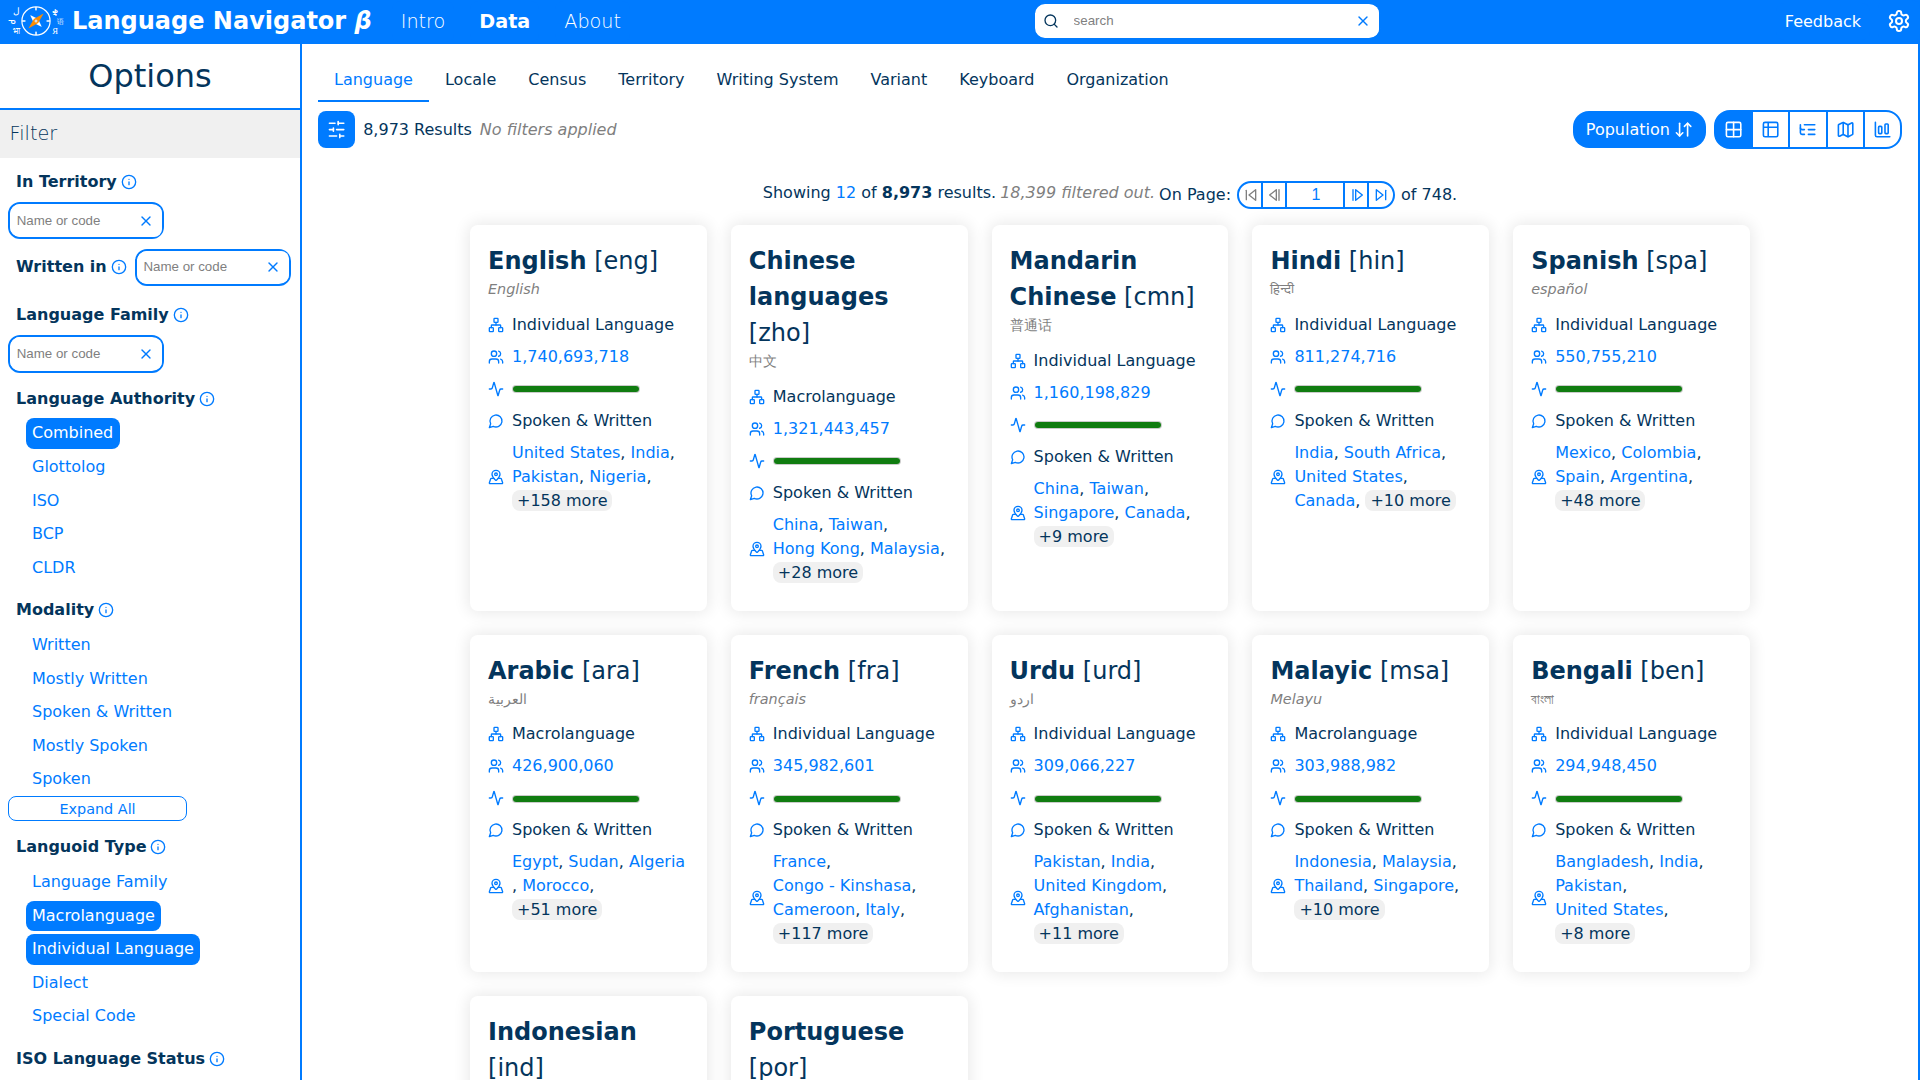
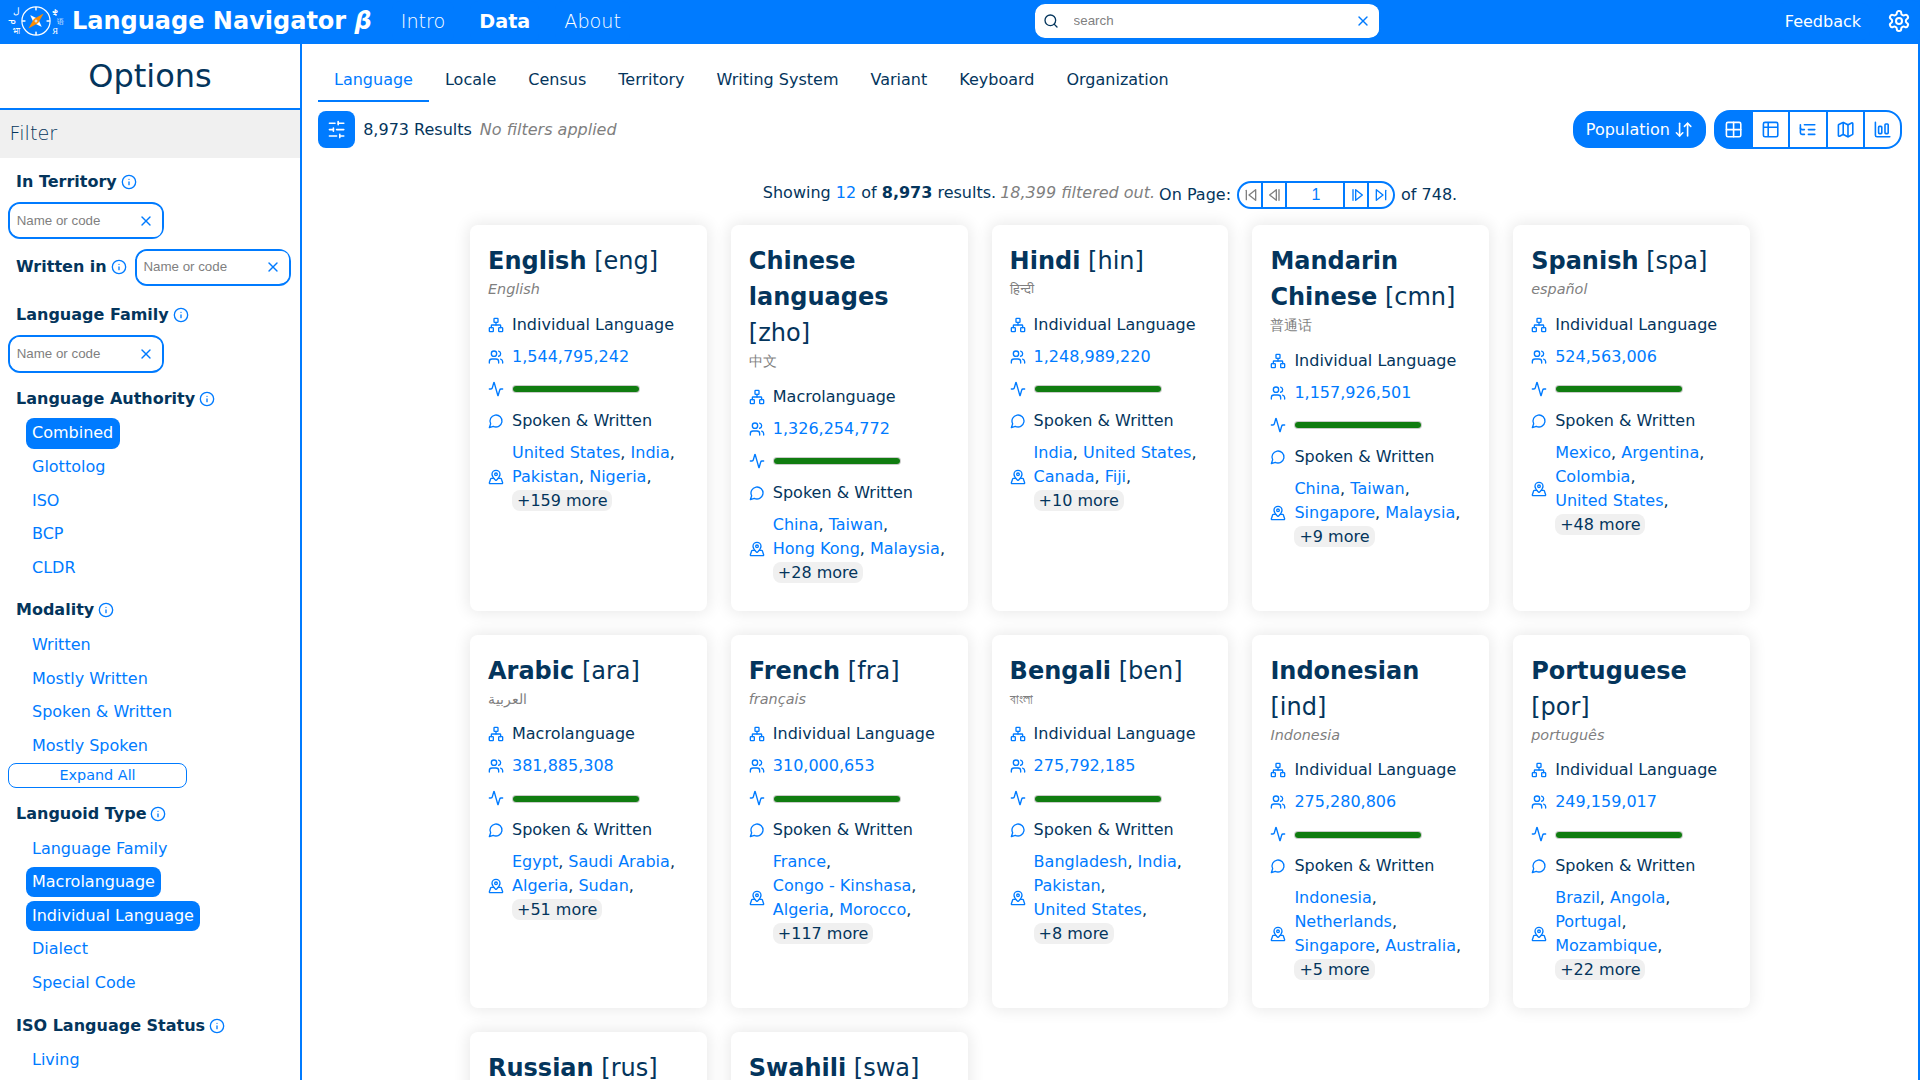
Censuses: More data, fixed Mayan category for Mexico (#705)
Summary: Added 5 censuses and did some other general improvements to how
we show census data

### Changes

- User experience
  - Changed citation format to use Organization shorthand
- Logical changes
- Fixed filter selectors to show up to 5 items, or 4 items + more button
- Data
- Added censuses for new countries: Comoros, Sierra Leone, Syria, South
Africa, Madagascar
  - Added orgs for the ZA and MG statistics organizations
- Fixed some language assignments: isiNdebele in South Africa is
actually South Ndebele (nde), and Maya in the Mexico census is yua
(Yucatec) since other Mayan languages are already included
  - Added locales that came to light with the new data
- Refactors
  - Moved AXL censuses to the same folder

Out of scope/Future work: Always Be Collecting censuses

### Test Plan and Screenshots

How to test the changes in this PR: Used the census input tool and
reviewed the potential locales page

---------

Pull request: Censuses: More data, fixed Mayan category for Mexico
Summary: Added 5 censuses and did some other general improvements to how we show census data

### Changes

- User experience
  - Changed citation format to use Organization shorthand
- Logical changes
  - Fixed filter selectors to show up to 5 items, or 4 items + more button
- Data
  - Added censuses for new countries: Comoros, Sierra Leone, Syria, South Africa, Madagascar
  - Added orgs for the ZA and MG statistics organizations
  - Fixed some language assignments: isiNdebele in South Africa is actually South Ndebele (nde), and Maya in the Mexico census is yua (Yucatec) since other Mayan languages are already included
  - Added locales that came to light with the new data
- Refactors
  - Moved AXL censuses to the same folder

Out of scope/Future work: Always Be Collecting censuses

### Test Plan and Screenshots

How to test the changes in this PR: Used the census input tool and reviewed the potential locales page

diff --git a/src/entities/locale/LocaleCensusCitation.tsx b/src/entities/locale/LocaleCensusCitation.tsx
@@ -16,35 +16,16 @@ type Props = {
 const LocaleCensusCitation: React.FC<Props> = ({ locale, size = 'full' }) => {
   const { census, source } = locale.pop.speaking;
 
-  if (census != null) return <CensusCitation census={census} size={size} />;
+  if (census != null) return <CensusCitation census={census} />;
   if (source != null) return <PopulationSource populationSource={source} size={size} />;
   return <Deemphasized>n/a</Deemphasized>;
 };
 
-const CensusCitation: React.FC<{ census: CensusData; size: 'short' | 'full' }> = ({
-  census,
-  size,
-}) => {
-  const { yearCollected, collectorName, collectorType, presentedBy } = census;
-  if (presentedBy === 'CLDR') {
-    // Leave out the date from CLDR, it's not available from the source
-    return (
-      <HoverableObject object={census}>{collectorName ?? presentedBy ?? 'Unknown'}</HoverableObject>
-    );
-  }
-  let name = collectorName;
-  if (name == null || name === '' || size === 'short') {
-    switch (collectorType) {
-      case 'Government':
-        name = census.territory?.nameDisplay ?? census.isoRegionCode;
-        break;
-      default:
-        name = collectorType;
-    }
-  }
+const CensusCitation: React.FC<{ census: CensusData }> = ({ census }) => {
+  const { yearCollected, collector, presenter } = census;
   return (
     <HoverableObject object={census}>
-      {name} {yearCollected}
+      {collector?.codeDisplay ?? presenter?.codeDisplay ?? 'Unknown'} {yearCollected}
     </HoverableObject>
   );
 };

diff --git a/src/features/transforms/filtering/selectors/FilterSelector.tsx b/src/features/transforms/filtering/selectors/FilterSelector.tsx
@@ -56,11 +56,28 @@ const FilterSelector: React.FC<Props> = ({ field }) => {
  */
 export const AllApplicableFilterSelectors: React.FC = () => {
   const { objectType } = usePageParams();
-  const filterBys = getApplicableFields(TransformEnum.Filter, objectType).filter(
-    (f) => f !== Field.Name,
-  ); // This shouldn't return the search bar
+  const primaryFilters: Field[] = getApplicableFields(TransformEnum.Filter, objectType).filter(
+    (f) => f !== Field.Name, // This should not return the search bar
+  );
+  const otherFilters: Field[] = getApplicableFields(TransformEnum.Filter).filter(
+    (f) => !primaryFilters.includes(f) && f !== Field.Name,
+  );
 
-  return filterBys.map((filterBy) => <FilterSelector field={filterBy} key={filterBy} />);
+  return (
+    <>
+      {primaryFilters.map((filterBy) => (
+        <FilterSelector field={filterBy} key={filterBy} />
+      ))}
+      {otherFilters.length > 0 && (
+        <details>
+          <summary>Filters for related entities</summary>
+          {otherFilters.map((filterBy) => (
+            <FilterSelector field={filterBy} key={filterBy} />
+          ))}
+        </details>
+      )}
+    </>
+  );
 };
 
 export default FilterSelector;

diff --git a/src/entities/census/CensusCard.tsx b/src/entities/census/CensusCard.tsx
@@ -47,13 +47,15 @@ const CensusCard: React.FC<Props> = ({ census }) => {
         field={Field.SourceType}
         description="The type of organization that collected this census and/or presented it"
       >
-        {census.collector && <HoverableObjectName object={census.collector} labelSource="code" />}
-        {census.presenter && (
-          <>
-            via
-            <HoverableObjectName object={census.presenter} labelSource="code" />
-          </>
-        )}
+        <div>
+          {census.collector && <HoverableObjectName object={census.collector} />}
+          {census.presenter && (
+            <>
+              {' '}
+              via <HoverableObjectName object={census.presenter} style={{ display: 'inline' }} />
+            </>
+          )}
+        </div>
       </CardField>
 
       <CardField

diff --git a/src/features/params/ui/Selector.tsx b/src/features/params/ui/Selector.tsx
@@ -26,7 +26,7 @@ type Props<T> = {
   selectorStyle?: React.CSSProperties;
 };
 
-const FILTER_LIST_INITIAL_COUNT = 5;
+const FILTER_LIST_INITIAL_COUNT = 4;
 
 function Selector<T extends React.Key>({
   display,
@@ -52,7 +52,7 @@ function Selector<T extends React.Key>({
   // For FilterList: collapse to first N items unless expanded
   const isFilterList = display === SelectorDisplay.FilterList;
   const filterListCollapsed =
-    isFilterList && !expanded && options.length > FILTER_LIST_INITIAL_COUNT;
+    isFilterList && !expanded && options.length > FILTER_LIST_INITIAL_COUNT + 1;
   const visibleOptions = filterListCollapsed
     ? options.slice(0, FILTER_LIST_INITIAL_COUNT)
     : options;
@@ -212,7 +212,7 @@ const FilterListMoreButton: React.FC<FilterListMoreButtonProps> = ({
   toggle,
 }) => {
   const { display } = useSelectorDisplay();
-  if (display !== SelectorDisplay.FilterList || totalCount <= FILTER_LIST_INITIAL_COUNT)
+  if (display !== SelectorDisplay.FilterList || totalCount <= FILTER_LIST_INITIAL_COUNT + 1)
     return null;
 
   return (

diff --git a/src/entities/census/parseCensusLanguageRow.ts b/src/entities/census/parseCensusLanguageRow.ts
@@ -38,7 +38,7 @@ export function parseCensusLanguageRow(
     const part = parts[tsvColumnNumber];
     if (part.trim() === '') return; // Skip empty parts
 
-    let popEstimate = Number.parseFloat(part.replace(/[,%]/g, ''));
+    let popEstimate = Number.parseFloat(part.replace(/[,% ]/g, ''));
     if (popEstimate > 0 && censuses[i].quantity === 'percent') {
       // If the quantity is percent, convert the percentage to an estimate based on the eligible population
       popEstimate = Math.round((popEstimate / 100) * censuses[i].population);

diff --git a/src/widgets/reports/ReportLocalesPotential.tsx b/src/widgets/reports/ReportLocalesPotential.tsx
@@ -191,7 +191,7 @@ const PotentialLocalesTable: React.FC<{
         },
         {
           key: 'Population Source',
-          render: (object) => <LocaleCensusCitation locale={object} size="short" />,
+          render: (object) => <LocaleCensusCitation locale={object} />,
         },
         {
           key: 'Related Locale',

diff --git a/src/widgets/tables/TableOfLanguagesInTerritory.tsx b/src/widgets/tables/TableOfLanguagesInTerritory.tsx
@@ -73,7 +73,7 @@ const TableOfLanguagesInTerritory: React.FC<Props> = ({ territory }) => {
           },
           {
             key: 'Population Source',
-            render: (loc) => <LocaleCensusCitation locale={loc} size="short" />,
+            render: (loc) => <LocaleCensusCitation locale={loc} />,
             valueType: TableValueType.Population,
             isInitiallyVisible: false,
           },

diff --git a/src/widgets/tables/columns/LocalePopulationColumns.tsx b/src/widgets/tables/columns/LocalePopulationColumns.tsx
@@ -45,7 +45,7 @@ export const LocalePopulationColumns: TableColumn<LocaleData>[] = [
   },
   {
     key: 'Population Source',
-    render: (object) => <LocaleCensusCitation locale={object} size="short" />,
+    render: (object) => <LocaleCensusCitation locale={object} />,
     columnGroup: 'Demographics',
   },
   {

diff --git a/src/features/data/load/extra_entities/loadCensusData.tsx b/src/features/data/load/extra_entities/loadCensusData.tsx
@@ -18,6 +18,7 @@ export async function loadCensusData(): Promise<(CensusImport | void)[]> {
     getCensusFilepaths('data/census/official'),
     getCensusFilepaths('data/census/data.un.org'),
     getCensusFilepaths('data/census/unofficial'),
+    getCensusFilepaths('data/census/axl'),
   ]).then((arrays) => arrays.flat());
 
   return await Promise.all(